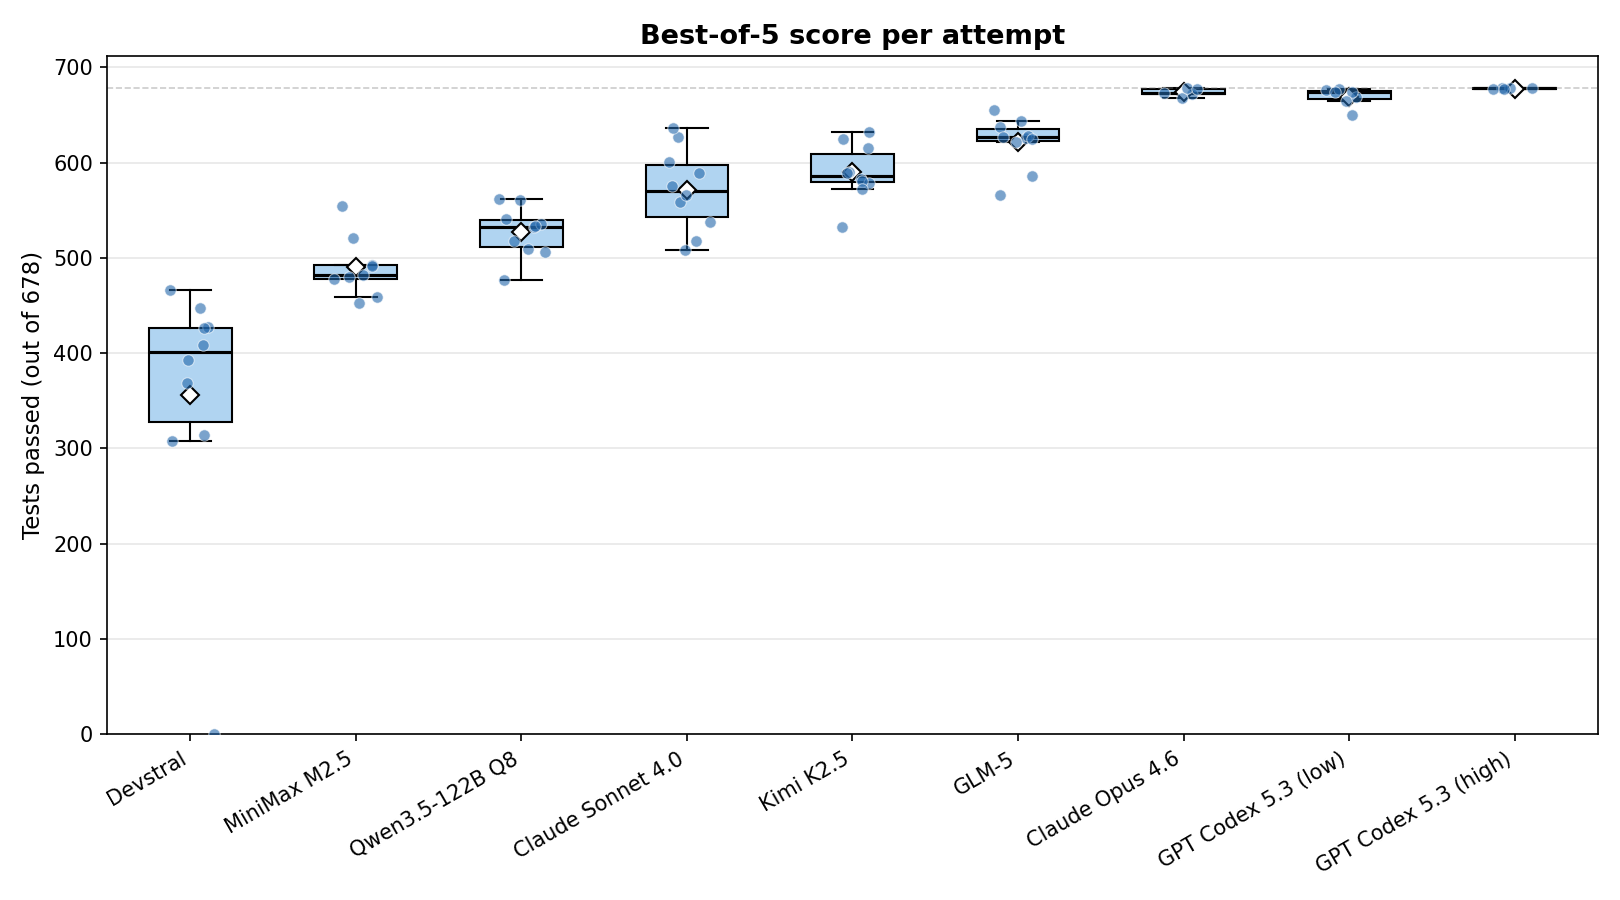
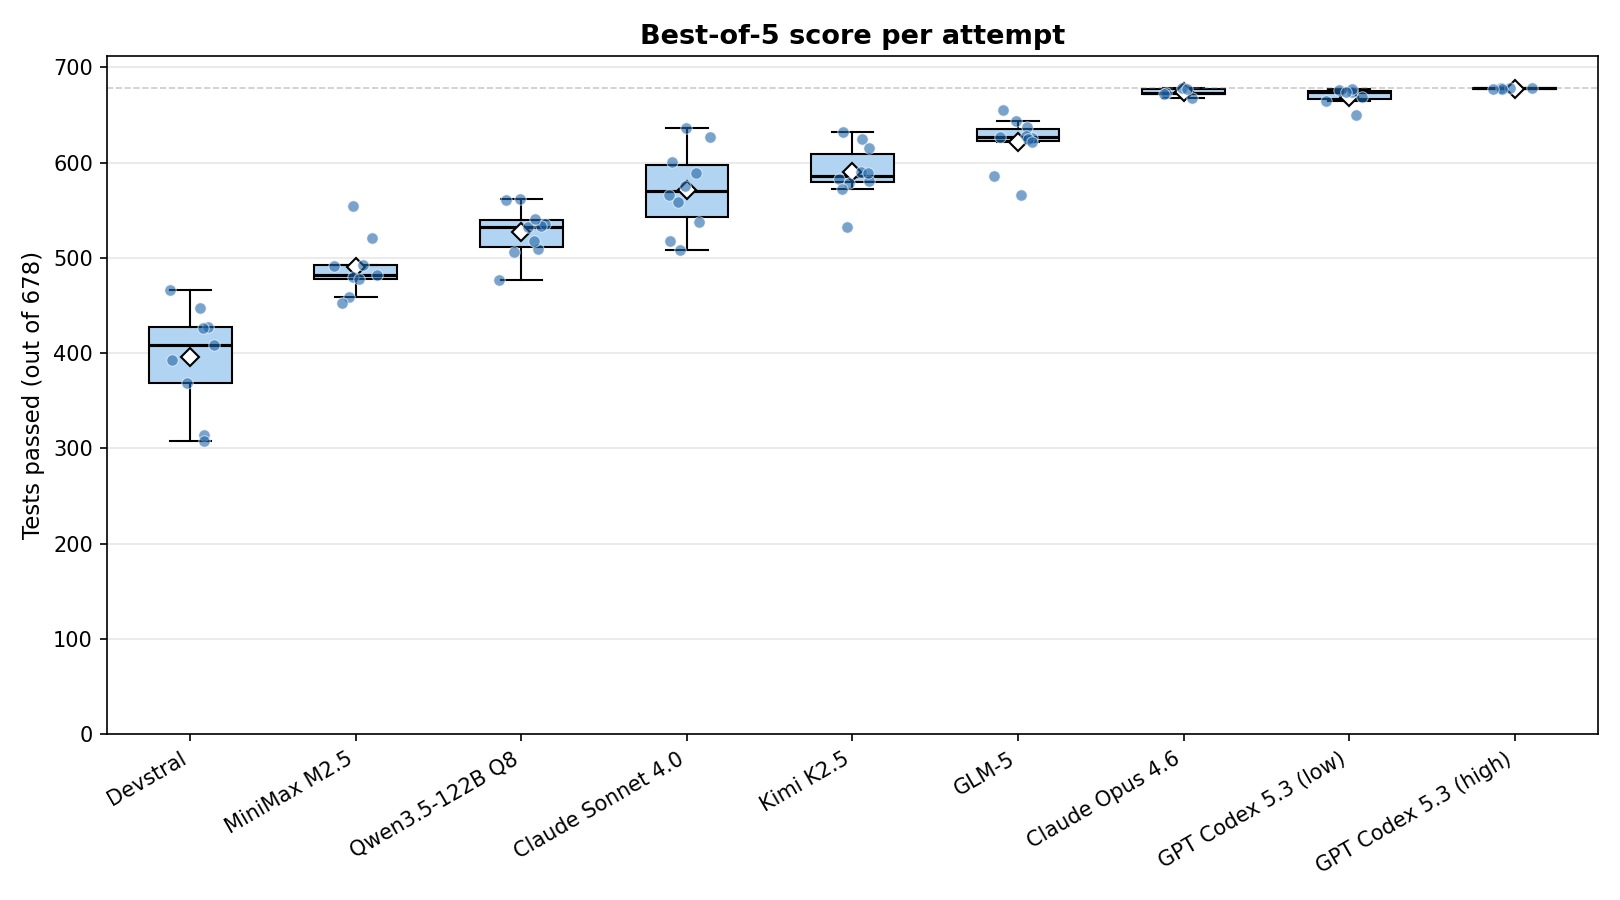
Clean 0/0 failed attempts and regenerate summaries
Removed 17 fully failed attempts (0/0, no valid test data) across
4 model directories:

- toml-1.0-cpp/devstral: removed attempt 5 (never compiled),
  renumbered 6-9 → 5-8 (10 → 9 attempts)
- toml-combined-cpp/glm-5: removed attempt 4 (5 → 4 attempts)
- toml-combined-cpp/kimi-k2.5: removed attempts 2-10 (11 → 2 attempts)
- toml-combined-cpp/qwen3.5-122b-q8: removed attempts 3-9 (10 → 3)

Also fixed per-model summary.txt files for 3 models whose summaries
incorrectly listed 0/0 entries despite having valid attempt data
(minimax-m2.5 on 1.0 and 1.1, qwen3.5-122b-q8 on 1.1). These were
previously cleaned but summaries weren't regenerated.

Regenerated all aggregate summaries, charts, and STATUS.md.

diff --git a/results/STATUS.md b/results/STATUS.md
@@ -9,14 +9,14 @@ Target: 10 attempts per model per task.
 | Claude Opus 4.6      | 5/10         | 5/10         | --                |
 | Claude Sonnet 4.0    | 10/10        | 5/10         | --                |
 | Claude Sonnet 4.6    | --           | --           | --                |
-| Devstral             | 10/10        | 10/10        | --                |
-| GLM-5                | 10/10        | 15/10        | 5/10              |
+| Devstral             | 9/10         | 10/10        | --                |
+| GLM-5                | 10/10        | 15/10        | 4/10              |
 | GPT Codex 5.3 (high) | 5/10        | 5/10         | --                |
 | GPT Codex 5.3 (low)  | 7/10        | 5/10         | --                |
-| Kimi K2.5            | 10/10        | 20/10        | 5/10              |
+| Kimi K2.5            | 10/10        | 20/10        | 2/10              |
 | MiniMax M2.5         | 9/10         | 9/10         | --                |
 | Qwen3.5-122B Q2      | --           | 10/10        | --                |
-| Qwen3.5-122B Q8      | 10/10        | 9/10         | 5/10              |
+| Qwen3.5-122B Q8      | 10/10        | 9/10         | 3/10              |
 
 **Legend:** `N/10` = N attempts completed, `--` = not started
 
